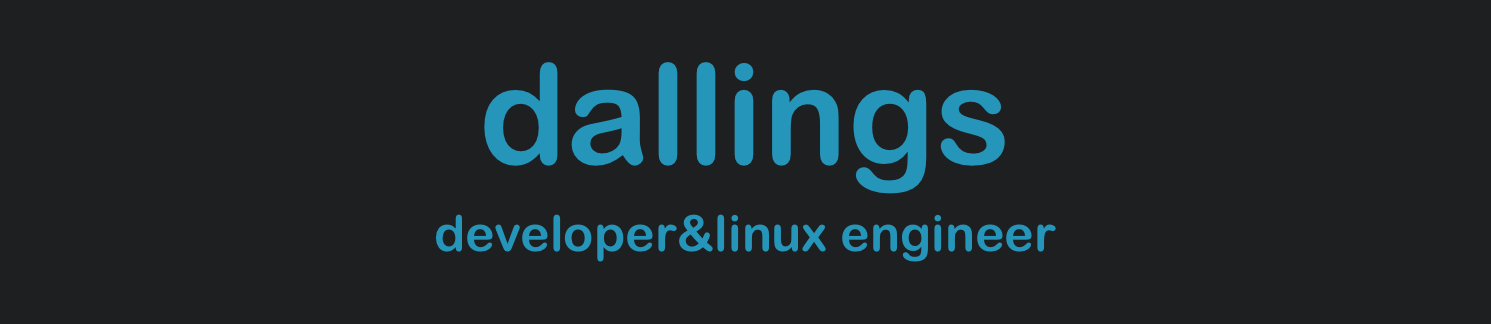
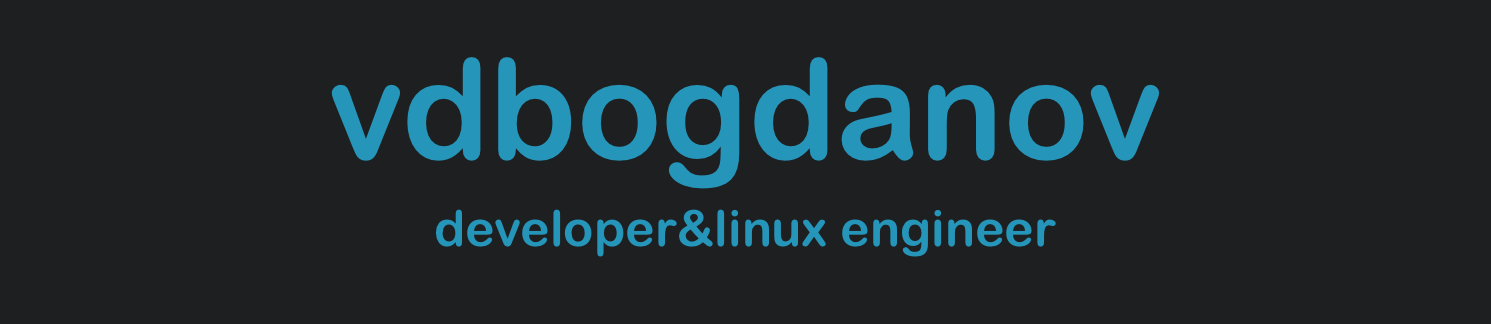
Update README.md

Changed region(s): [[0.216, 0.1852, 0.8021, 0.6173], [0.2777, 0.6481, 0.7096, 0.8025]]

diff --git a/README.md b/README.md
@@ -4,12 +4,12 @@
 
 My name is Vladimir Bogdanov and I am a developer/linux engineer. I work on creating various projects, specializing in automating infrastructure tasks. In the near future, I plan to start studying the DevOps technology stack and publishing my work. It's important to me not only to develop my skills but also to share my knowledge with other developers. I believe that continuous self-improvement and sharing of experience helps make our work more efficient and interesting.
 
-<a href='https://t.me/dallings'>
-<img align="left" width="28" alt="dallings Telegram" src="icons/telegram.svg" />
+<a href='https://t.me/vdbogdanov'>
+<img align="left" width="28" alt="vdbogdanov Telegram" src="icons/telegram.svg" />
 </a>
 
 <a href="mailto:vd.bogdanov@linuxdev.ru">
-<img align="left" width="28" alt="dallings Mail" src="icons/mail.svg" />
+<img align="left" width="28" alt="vdbogdanov Mail" src="icons/mail.svg" />
 </a>
 
 <a href='https://www.linkedin.com/in/dallings'>
@@ -26,12 +26,12 @@ My name is Vladimir Bogdanov and I am a developer/linux engineer. I work on crea
 
 ## ⚡ GitHub Stats
 
-<a href="https://github.com/dallings/dallings">
-  <img align="center" src="https://github-readme-stats.vercel.app/api?username=dallings&show_icons=true&line_height=27&count_private=true&title_color=2695ba&text_color=afbac6&icon_color=2695ba&bg_color=1d1f21&border_color=2695ba&card_width=375" />
+<a href="https://github.com/vdbogdanov/vdbogdanov">
+  <img align="center" src="https://github-readme-stats.vercel.app/api?username=vdbogdanov&show_icons=true&line_height=27&count_private=true&title_color=2695ba&text_color=afbac6&icon_color=2695ba&bg_color=1d1f21&border_color=2695ba&card_width=375" />
 </a>
 
-<a href="https://github.com/dallings/dallings">
-  <img align="center" src="https://github-readme-stats.vercel.app/api/top-langs/?username=dallings&langs_count=3&title_color=2695ba&text_color=afbac6&icon_color=2695ba&bg_color=1d1f21&border_color=2695ba&card_width=375" />
+<a href="https://github.com/vdbogdanov/vdbogdanov"">
+  <img align="center" src="https://github-readme-stats.vercel.app/api/top-langs/?username=vdbogdanov&langs_count=3&title_color=2695ba&text_color=afbac6&icon_color=2695ba&bg_color=1d1f21&border_color=2695ba&card_width=375" />
 </a>
 
 
